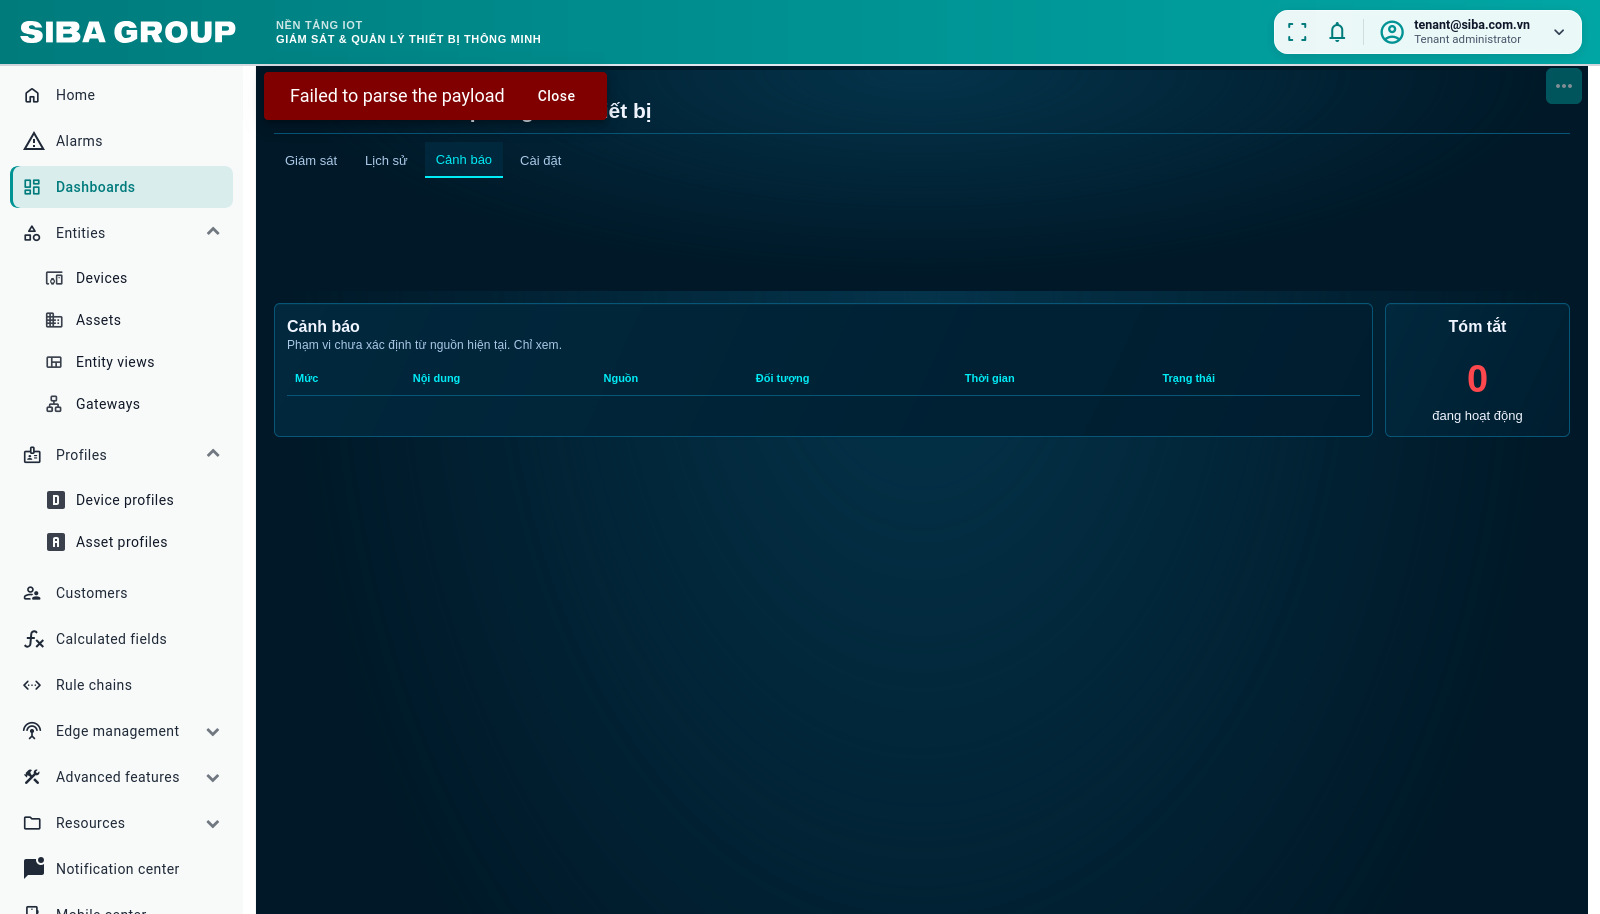
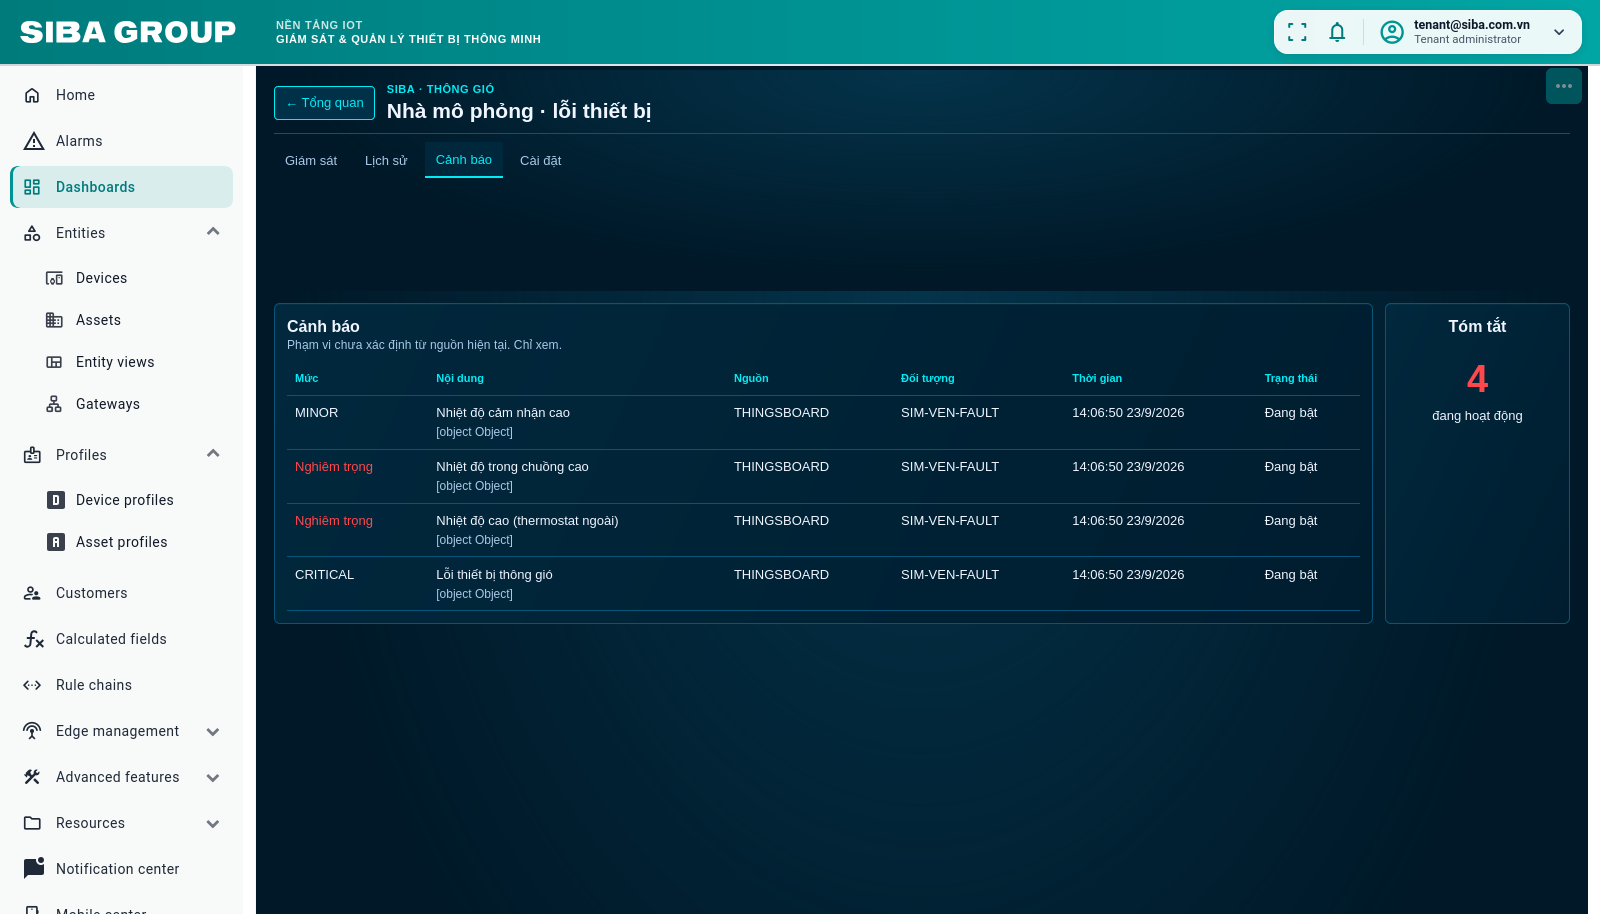
docs(vent011): xác minh cuối — bảng cảnh báo hiện đủ 4 alarm

diff --git a/docs/ventilation/deployment/vent011_simulation.md b/docs/ventilation/deployment/vent011_simulation.md
@@ -122,7 +122,7 @@ Bằng chứng: `evidence/vent011_ui_verify.json`, `vent011-live-overview-1600.p
 |---|---|---|
 | Giám sát | KPI và sơ đồ đúng số của nhà đã chọn | 0 |
 | Lịch sử | **380 dòng** từ 3 giờ dữ liệu thật, có mốc thời gian và giá trị | 0 |
-| Cảnh báo | 0 dòng — **đúng**, vì chưa có alarm rule; không bịa dòng nào | 0 |
+| Cảnh báo | **4 dòng**, đúng 4 alarm của nhà đang xem, không lẫn nhà khác | 0 |
 | Cài đặt | đọc được **224/224** khóa, 37 dòng bảng | 0 |
 
 Không màn nào có ô nhập hay điều khiển ghi: đúng yêu cầu chỉ xem.
@@ -183,6 +183,19 @@ Cách chẩn đoán đã dùng: vá `WebSocket.prototype.send` trong trang để
 listener đọc phản hồi. Không thấy `cmdId` của mình trong phản hồi nghĩa là máy chủ đã bỏ lệnh,
 tức sai định dạng chứ không phải sai bộ lọc. Chi tiết trong bẫy #34.
 
-## 13. Việc còn treo
+## 13. Kết quả cuối (23/09/2026)
 
-- Chưa xác minh alarm nổi lên màn Cảnh báo sau bản sửa cuối.
+`verify_vent011_ui.py` báo **ĐẠT** toàn bộ. Bảng Cảnh báo hiện đủ 4 alarm của nhà FAULT; chẩn
+đoán xác nhận `alarmDataCount = 4`, `alarmTotal = 4`, `canSubscribe = true` — tức là chính lời
+gọi `subscribeForAlarms` của dự án này là đường đang dùng, nên lỗi `sortOrder.key` đúng là của ta.
+
+Chẩn đoán vẫn để bật trên widget cảnh báo. Nó chỉ ghi hình dạng, không ghi giá trị, và là công cụ
+sẽ cần lại khi đấu PLC thật.
+
+## 14. Việc còn treo
+
+- "Cảnh báo đang mở" ở màn Tổng quan vẫn để `--`. Đây là **chủ ý**: con số đó thuộc phạm vi alarm
+  của nền tảng, không suy được từ danh sách nhà. Muốn hiện số thật thì phải cho widget Tổng quan
+  một alarm subscription riêng — việc của đợt sau.
+- Mức độ nghiêm trọng của 6 alarm rule vẫn là **đề xuất**, chưa được NCC/khách xác nhận.
+- Thiết bị mô phỏng chưa có quan hệ nhà/khu/trại nên alarm không lan truyền lên cấp trên.
